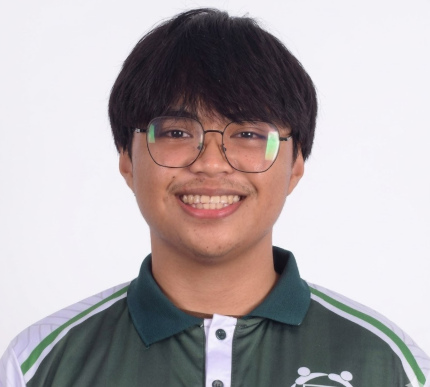
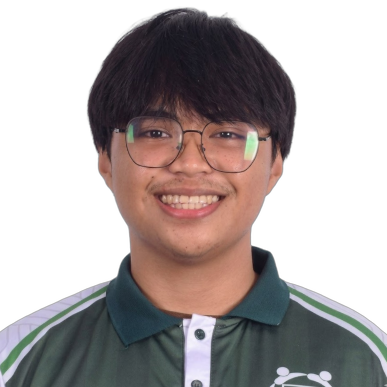
fix(skills): prevent card stretching on filter and refine minimalist typography

diff --git a/src/components/InteractiveSkills.tsx b/src/components/InteractiveSkills.tsx
@@ -47,9 +47,9 @@ export const InteractiveSkills: React.FC<InteractiveSkillsProps> = ({ skills }) 
         </div>
       </div>
 
-      <div className="grid grid-cols-1 lg:grid-cols-3 gap-6">
+      <div className="grid grid-cols-1 lg:grid-cols-3 gap-6 items-start">
         {/* Interactive Icon Grid */}
-        <div className="lg:col-span-2 grid grid-cols-2 sm:grid-cols-3 md:grid-cols-4 gap-2.5">
+        <div className="lg:col-span-2 grid grid-cols-2 sm:grid-cols-3 md:grid-cols-4 gap-2.5 content-start items-start">
           {filteredSkills.map((skill) => {
             const IconComponent = TechIconMap[skill.slug] || Layers;
             const isSelected = activeSkill.slug === skill.slug;
@@ -59,20 +59,20 @@ export const InteractiveSkills: React.FC<InteractiveSkillsProps> = ({ skills }) 
                 key={skill.slug}
                 onClick={() => setActiveSkill(skill)}
                 onMouseEnter={() => setActiveSkill(skill)}
-                className={`p-3.5 rounded-2xl border text-left flex flex-col justify-between transition-all duration-150 group relative ${
+                className={`p-3.5 rounded-2xl border text-left flex flex-col justify-between h-[104px] transition-all duration-150 group relative ${
                   isSelected
                     ? 'border-black bg-neutral-900 text-white shadow-xs'
-                    : 'border-gray-200 bg-white hover:border-gray-400 text-gray-800'
+                    : 'border-neutral-200 bg-white hover:border-neutral-400 text-neutral-800'
                 }`}
               >
-                <div className="flex items-center justify-between w-full mb-3">
+                <div className="flex items-center justify-between w-full">
                   <span className={`p-2 rounded-xl transition-colors ${
-                    isSelected ? 'bg-neutral-800 text-white' : 'bg-gray-100 text-black group-hover:bg-gray-200'
+                    isSelected ? 'bg-neutral-800 text-white' : 'bg-neutral-100 text-black group-hover:bg-neutral-200'
                   }`}>
                     <IconComponent className="w-5 h-5" />
                   </span>
                   <span className={`text-[10px] font-mono px-1.5 py-0.5 rounded ${
-                    isSelected ? 'text-gray-400 bg-neutral-800' : 'text-gray-400 bg-gray-50'
+                    isSelected ? 'text-neutral-400 bg-neutral-800' : 'text-neutral-400 bg-neutral-100'
                   }`}>
                     {skill.category}
                   </span>
@@ -89,7 +89,7 @@ export const InteractiveSkills: React.FC<InteractiveSkillsProps> = ({ skills }) 
         </div>
 
         {/* Live Detail Inspector */}
-        <div className="p-6 rounded-2xl bg-gray-50 border border-gray-100 flex flex-col justify-between">
+        <div className="p-5 sm:p-6 rounded-2xl bg-neutral-50 border border-neutral-200/80 flex flex-col justify-between">
           <div>
             <div className="flex items-center gap-3 mb-4">
               <div className="w-10 h-10 rounded-xl bg-black text-white flex items-center justify-center">

diff --git a/src/components/Hero.tsx b/src/components/Hero.tsx
@@ -14,11 +14,13 @@ export const Hero: React.FC<HeroProps> = ({ personal, onExploreProjects }) => {
       <div className="flex flex-col md:flex-row items-center md:items-start gap-7">
         {/* Minimal Avatar */}
         <div className="shrink-0">
-          <img
-            src={personal.avatarUrl || '/profile.png'}
-            alt={personal.name}
-            className="w-20 h-20 sm:w-24 sm:h-24 rounded-2xl object-cover border border-neutral-200 shadow-xs"
-          />
+          <div className="w-24 h-24 sm:w-28 sm:h-28 rounded-full overflow-hidden bg-neutral-100 border border-neutral-200/90 shadow-sm flex items-center justify-center">
+            <img
+              src={personal.avatarUrl || '/profile.png'}
+              alt={personal.name}
+              className="w-full h-full object-cover scale-105"
+            />
+          </div>
         </div>
 
         {/* Bio & Headlines */}

diff --git a/src/components/Sidebar.tsx b/src/components/Sidebar.tsx
@@ -182,11 +182,13 @@ export const Sidebar: React.FC<SidebarProps> = ({
         {/* Bottom Profile Bar */}
         <div className="p-3 border-t border-neutral-100 shrink-0">
           <div className="flex items-center gap-2.5">
-            <img
-              src="/profile.png"
-              alt="Hugh"
-              className="w-7 h-7 rounded-full object-cover border border-neutral-200 shrink-0"
-            />
+            <div className="w-8 h-8 rounded-full overflow-hidden bg-neutral-100 border border-neutral-200 shrink-0 flex items-center justify-center">
+              <img
+                src="/profile.png"
+                alt="Hugh"
+                className="w-full h-full object-cover scale-105"
+              />
+            </div>
 
             {isOpen && (
               <div className="min-w-0 flex-1">

diff --git a/src/index.css b/src/index.css
@@ -7,9 +7,21 @@
 
   body {
     background-color: #ffffff;
-    color: #1f2937;
-    font-family: -apple-system, BlinkMacSystemFont, "Segoe UI", Roboto, "Helvetica Neue", Arial, sans-serif;
+    color: #171717;
+    font-family: 'Inter', -apple-system, BlinkMacSystemFont, "Segoe UI", Roboto, sans-serif;
+    letter-spacing: -0.012em;
     overflow-x: hidden;
+    -webkit-font-smoothing: antialiased;
+    -moz-osx-font-smoothing: grayscale;
+  }
+
+  h1, h2, h3, h4 {
+    letter-spacing: -0.025em;
+  }
+
+  code, pre, .font-mono {
+    font-family: 'JetBrains Mono', monospace;
+    letter-spacing: -0.01em;
   }
 
   /* Minimal clean scrollbar */

diff --git a/index.html b/index.html
@@ -7,7 +7,7 @@
     <title>Hugh</title>
     <link rel="preconnect" href="https://fonts.googleapis.com">
     <link rel="preconnect" href="https://fonts.gstatic.com" crossorigin>
-    <link href="https://fonts.googleapis.com/css2?family=JetBrains+Mono:wght@400;500;600&family=Plus+Jakarta+Sans:wght@400;500;600;700&display=swap" rel="stylesheet">
+    <link href="https://fonts.googleapis.com/css2?family=Inter:wght@300;400;500;600;700&family=JetBrains+Mono:wght@400;500&display=swap" rel="stylesheet">
   </head>
   <body>
     <div id="root"></div>
